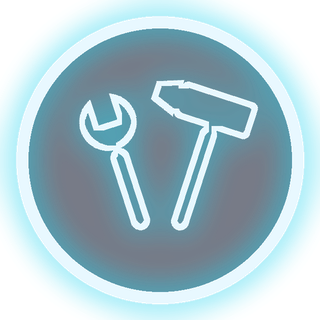
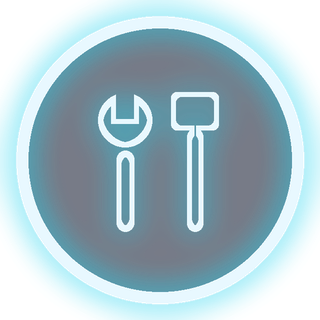
Mute music with the Sound setting; vertical centered wrench+hammer; flip retry arrow
- Music volume follows the Sound setting (menu and pause-menu toggles)
- Upgrades icon: tools upright and centered, smaller hammer head
- Retry arrow points the other way and its head follows the circle

Changed region(s): [[0.25, 0.25, 0.8125, 0.75]]

diff --git a/tools/art/neon.py b/tools/art/neon.py
@@ -6,7 +6,7 @@ original file. res/logical-sizes.txt tells the game the logical size (see GameAs
 """
 import math, os
 import numpy as np
-from PIL import Image, ImageDraw, ImageFilter, ImageFont, ImageChops
+from PIL import Image, ImageDraw, ImageFilter, ImageFont, ImageChops, ImageOps
 
 K = 4
 SS = 2
@@ -222,18 +222,17 @@ def glyph(name):
 @glyph('upgrades')
 def _(p):
     def wrench(d, P):
-        d.rounded_rectangle((*P(-0.12, -0.15), *P(0.12, 0.92)), radius=p.s * 0.12, fill=255)
-        d.ellipse((*P(-0.36, -0.86), *P(0.36, -0.14)), fill=255)
-        d.rectangle((*P(-0.12, -1.0), *P(0.12, -0.5)), fill=0)
+        d.rounded_rectangle((*P(-0.11, -0.12), *P(0.11, 0.9)), radius=p.s * 0.11, fill=255)
+        d.ellipse((*P(-0.34, -0.84), *P(0.34, -0.16)), fill=255)
+        d.rectangle((*P(-0.11, -1.0), *P(0.11, -0.52)), fill=0)
 
     def hammer(d, P):
-        d.rounded_rectangle((*P(-0.11, -0.45), *P(0.11, 0.92)), radius=p.s * 0.11, fill=255)
-        d.rounded_rectangle((*P(-0.5, -0.9), *P(0.5, -0.42)), radius=p.s * 0.08, fill=255)
-        d.polygon([P(-0.5, -0.9), P(-0.82, -0.78), P(-0.82, -0.54), P(-0.5, -0.42)], fill=255)
+        d.rounded_rectangle((*P(-0.1, -0.4), *P(0.1, 0.9)), radius=p.s * 0.1, fill=255)
+        d.rounded_rectangle((*P(-0.3, -0.86), *P(0.3, -0.38)), radius=p.s * 0.07, fill=255)
 
-    ox = 0.5
-    p.silhouette(lambda d, P: wrench(d, lambda x, y: P(x - ox, y)), angle=18, center=(-ox, 0.0), outline=p.w * 0.85)
-    p.silhouette(lambda d, P: hammer(d, lambda x, y: P(x + ox, y)), angle=-18, center=(ox, 0.0), outline=p.w * 0.85)
+    ox, oy = 0.44, 0.0
+    p.silhouette(lambda d, P: wrench(d, lambda x, y: P(x - ox, y + oy)), outline=p.w * 0.85)
+    p.silhouette(lambda d, P: hammer(d, lambda x, y: P(x + ox, y + oy)), outline=p.w * 0.85)
 
 
 @glyph('settings')
@@ -320,16 +319,18 @@ def _(p):
 @glyph('retry')
 def _(p):
     r = 0.7
-    start, end = 50, 330
+    start, end = 50, 325
     p.arc(0, 0, r, start, end, w=p.w * 1.15)
-    th = math.radians(end)
-    x, y = r * math.cos(th), r * math.sin(th)
-    tx, ty = -math.sin(th), math.cos(th)
-    nx, ny = -ty, tx
-    L, Wd = 0.52, 0.34
-    tip = (x + tx * L * 0.62, y + ty * L * 0.62)
-    base = (x - tx * L * 0.38, y - ty * L * 0.38)
-    p.poly([tip, (base[0] + nx * Wd, base[1] + ny * Wd), (base[0] - nx * Wd, base[1] - ny * Wd)])
+
+    def pt(rad, deg):
+        a = math.radians(deg)
+        return (rad * math.cos(a), rad * math.sin(a))
+
+    # head hugs the circle: radial base at `end`, tip on the circle 30 degrees further along
+    p.poly([pt(r + 0.3, end - 2), pt(r - 0.3, end - 2), pt(r, end + 34)])
+
+
+MIRROR = {'retry'}
 
 
 @glyph('pause')
@@ -411,6 +412,8 @@ def button(name, gname, size, slash=False):
     d.ellipse((c - R, c - R, c + R, c + R), outline=(255, 255, 255, 255), width=int(ring_w))
     pen = Pen(stroke, c, c, R * 0.55, w * U * 0.040)
     GLYPHS[gname](pen)
+    if gname in MIRROR:
+        stroke = ImageOps.mirror(stroke)
     if slash:
         pen.line([(-0.95, -0.95), (0.95, 0.95)], w=w * U * 0.05)
     halo = glow(stroke, w * 0.045, CYAN, 1.0)

diff --git a/core/src/com/spaceship/main/MainMenuScreen.java b/core/src/com/spaceship/main/MainMenuScreen.java
@@ -225,6 +225,7 @@ public class MainMenuScreen implements Screen {
 	public long lastTimeBg;
 	public int lightTime;
 	public int musicTime;
+	private float musicFade;
 	public long time;
 	public int galaxySelected;
 	public int forceFieldSelected;
@@ -993,7 +994,8 @@ public class MainMenuScreen implements Screen {
 		updateSettingsMenuSpent();
 
 		music.setLooping(true);
-		music.setVolume(0f);
+		musicFade = 0f;
+		updateMusicVolume();
 		music.play();
 		
 		if(Gdx.app.getType().equals(ApplicationType.Android) && !game.getActionResolver().getSignedIn() && bestScore == 0)
@@ -1263,11 +1265,12 @@ public class MainMenuScreen implements Screen {
 			boughtUpgrade = false;
 		}
 
-		if(music.getVolume() < 1){
+		if(musicFade < 1){
 			if(musicTime % 40 == 0)
-				music.setVolume(music.getVolume() + 0.025f);
+				musicFade = Math.min(1f, musicFade + 0.025f);
 			musicTime++;
 		}
+		updateMusicVolume();
 
 		tweenManager.update(delta);
 		
@@ -3003,6 +3006,7 @@ public class MainMenuScreen implements Screen {
 		iSoundOn.addListener(new ClickListener(){
 			public void clicked(InputEvent event, float x, float y){
 				sound = OFF;
+				updateMusicVolume();
 				soundInMenu = OFF;
 				imgsSttngs.getCell(iSoundOn).setActor(iSoundOff);
 			}
@@ -3011,6 +3015,7 @@ public class MainMenuScreen implements Screen {
 			public void clicked(InputEvent event, float x, float y){
 				buttonSmall.play();
 				sound = ON;
+				updateMusicVolume();
 				soundInMenu = ON;
 				imgsSttngs.getCell(iSoundOff).setActor(iSoundOn);
 			}
@@ -3782,6 +3787,11 @@ public class MainMenuScreen implements Screen {
 		}
 	};
 	
+	/** The music follows the Sound setting: silent when it is OFF, otherwise the faded-in level. */
+	public void updateMusicVolume(){
+		music.setVolume(sound == ON ? musicFade : 0f);
+	}
+
 	public float fx(float v){
 		return x*v;
 	}

diff --git a/core/src/com/spaceship/main/PlayScreen.java b/core/src/com/spaceship/main/PlayScreen.java
@@ -1147,6 +1147,7 @@ public class PlayScreen implements Screen {
 						game.getMMS().buttonSmall.play();
 						game.getMMS().sound = game.getMMS().ON;
 					}
+					game.getMMS().updateMusicVolume();
 				}else if(Gdx.input.getX() > bVibrationOn.getX() && Gdx.input.getX() < bVibrationOn.getX() + bVibrationOn.getWidth() && 
 						Gdx.graphics.getHeight() - Gdx.input.getY() > bVibrationOn.getY() && Gdx.graphics.getHeight() - 
 						Gdx.input.getY() < bVibrationOn.getY() + bVibrationOn.getHeight()){
